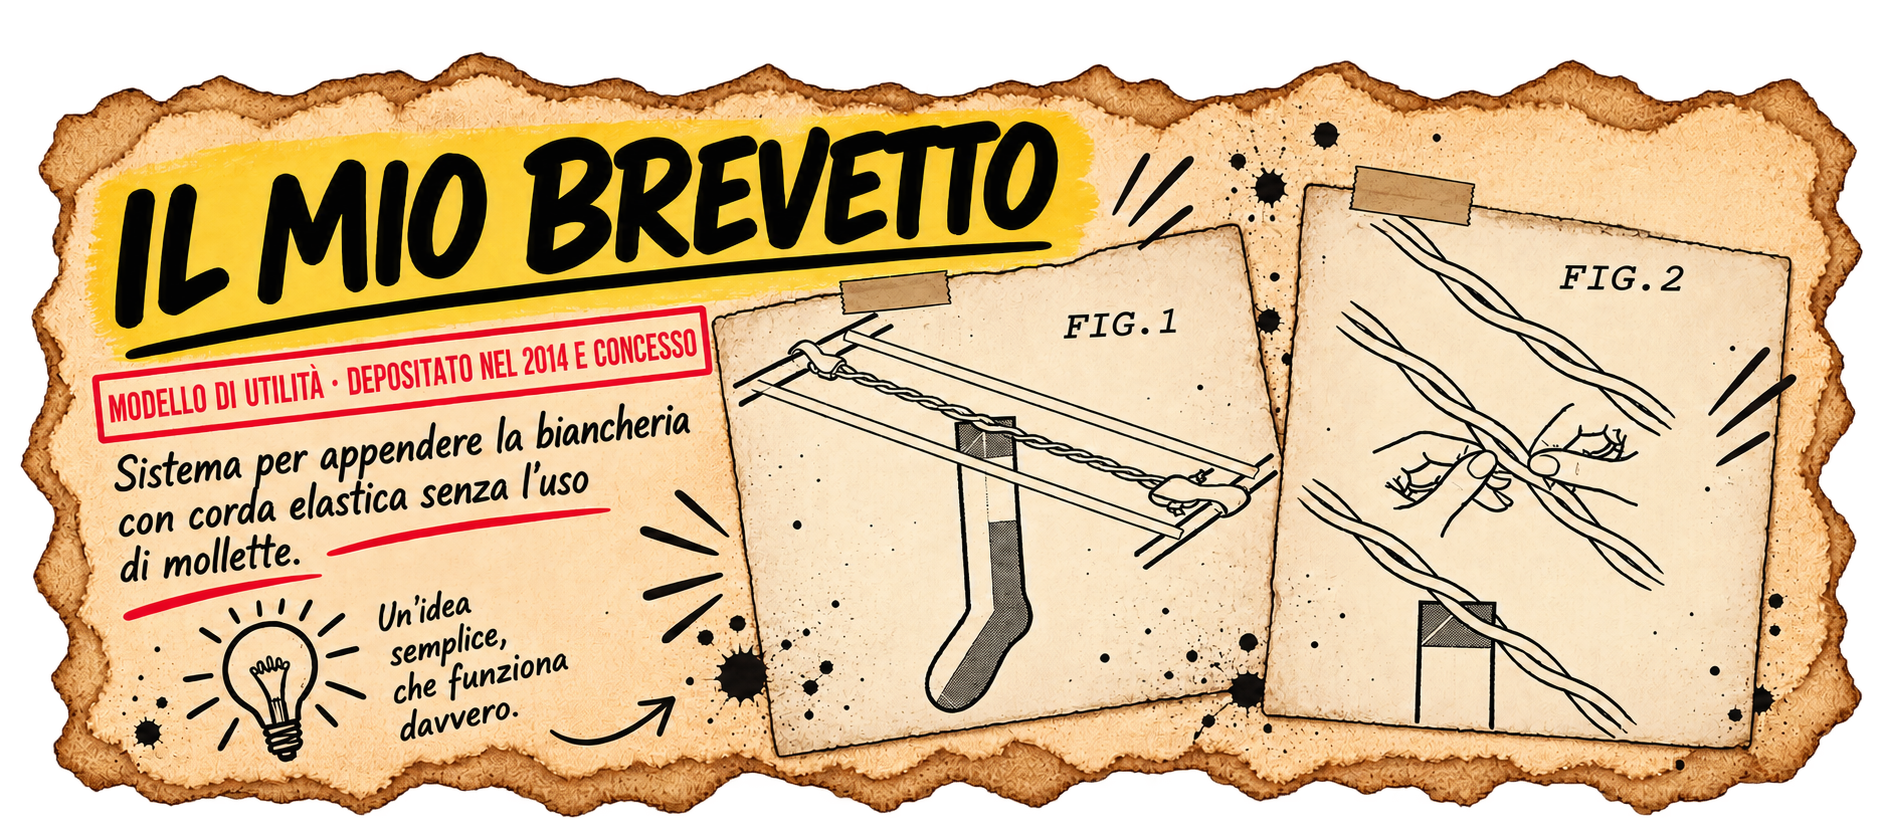
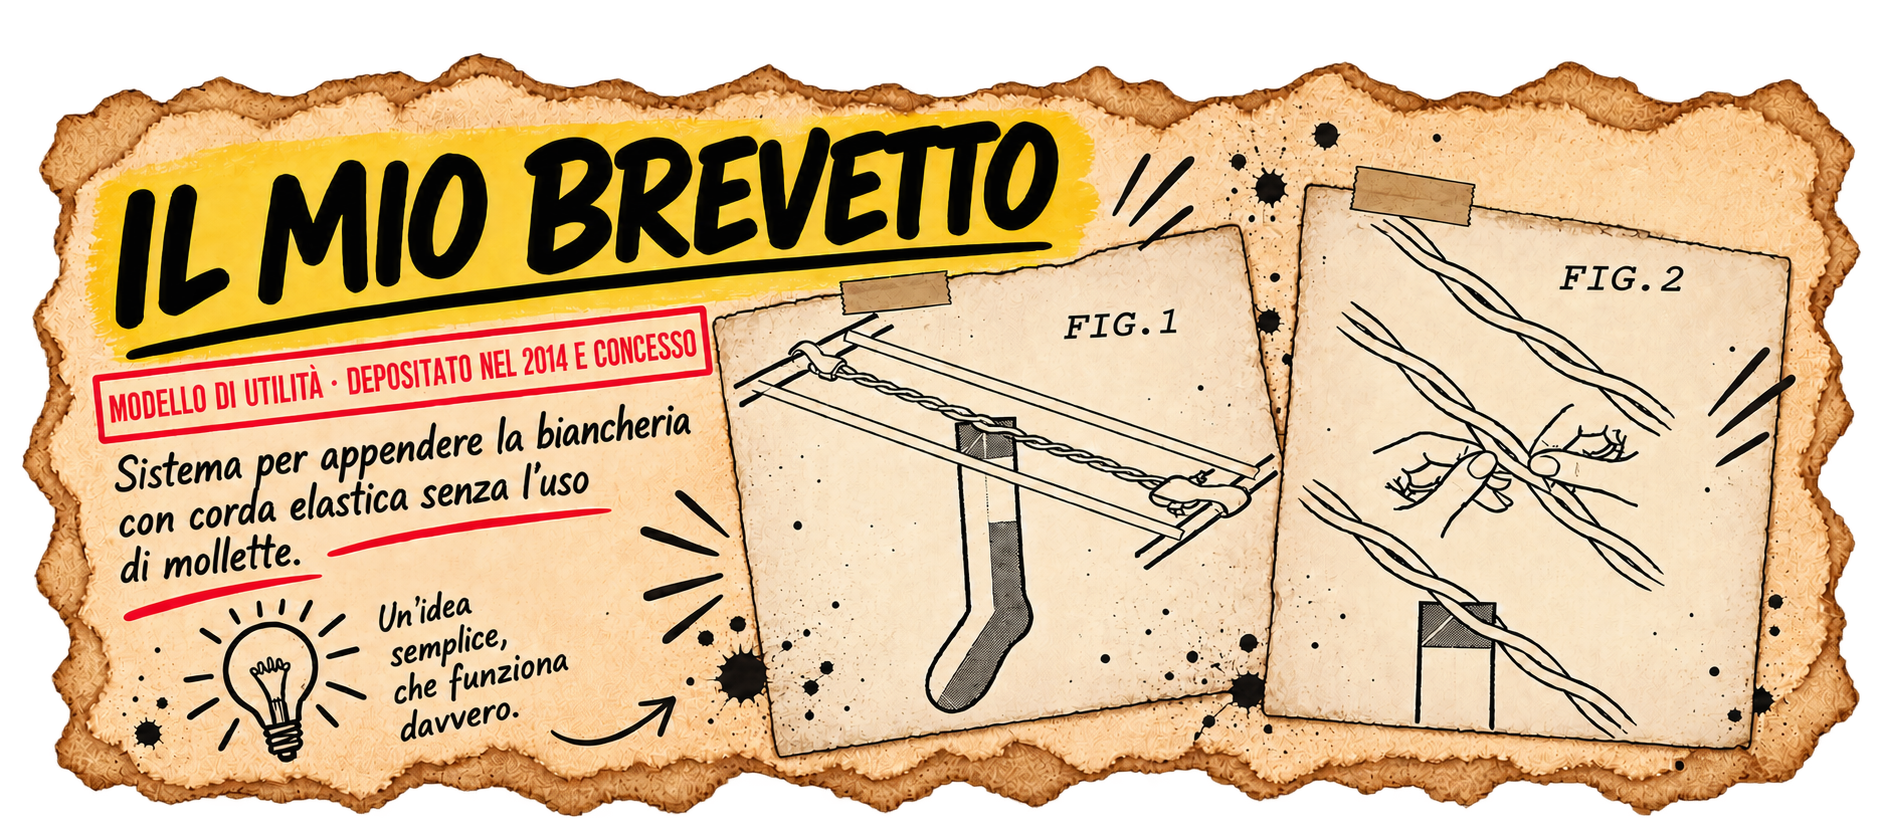
Add files via upload

diff --git a/info.html b/info.html
@@ -22,13 +22,13 @@
 
     <section><h2>05 — POKER PRO PLAYER</h2><p>Il <strong>poker sportivo e agonistico</strong> è una delle passioni di Federico Della Corte. Il suo percorso è iniziato nel 2018, dopo aver seguito una MasterClass del campione di poker <strong>Daniel Negreanu</strong>. Da allora Federico ha continuato a studiare e migliorare il proprio gioco, partecipando a tornei ufficiali e cercando progressivamente di migliorare la propria posizione nel ranking europeo e internazionale.</p><p>I risultati ottenuti nei tornei live sono registrati nel suo <a href="https://pokerdb.thehendonmob.com/player.php?a=r&amp;n=1281831" target="_blank" rel="noopener"><strong>profilo su The Hendon Mob</strong></a>, database internazionale dedicato ai risultati dei tornei di poker.</p><p>Federico affronta il poker con <strong>passione e serietà agonistica</strong>, mantenendo però una netta distinzione tra <strong>competizione e gioco problematico</strong>. Per questo associa alla propria attività un esplicito invito al gioco responsabile e ricorda che in Italia è possibile richiedere gratuitamente l'<strong>autoesclusione dal gioco a distanza</strong> attraverso il Registro Unico Autoesclusioni (RUA) dell'Agenzia delle Dogane e dei Monopoli.</p></section>
 
-    <section><h2>06 — IL MIO BREVETTO</h2><p>A una mente ADHD le idee non mancano di certo e <strong>Federico Della Corte ha sempre odiato le mollette da bucato</strong> per due motivi: lo spreco continuo di materiali — plastica, legno o altri componenti — e la necessità di utilizzare e portarsi dietro un accessorio in più per compiere un'operazione quotidiana che, secondo lui, poteva essere semplificata.</p><p>Da questa piccola insofferenza è nata un'idea molto concreta: <strong>un sistema per stendere e appendere la biancheria senza l'utilizzo delle tradizionali mollette</strong>, basato sull'impiego di corde elastiche.</p><p>L'idea è stata sviluppata pensando a diverse possibili applicazioni: <strong>accessori portatili, sistemi aggiungibili o integrabili negli stendini tradizionali e soluzioni autonome</strong>, tutte accomunate dall'obiettivo di eliminare la necessità delle mollette.</p><p>E, anche se può sembrare incredibile, Federico ha avuto anche l'energia di trasformare l'idea in un vero <strong>modello di utilità</strong>, depositato nel 2014 e successivamente concesso.</p><p>Il progetto e la relativa documentazione costituiscono parte della proprietà intellettuale di Federico Della Corte. <a href="assets/docs/brevetto-originale.pdf" target="_blank"><strong>Incredibile, vero? Guarda il brevetto originale →</strong></a></p><p>Federico è disponibile a valutare collaborazioni, partnership o proposte per lo sviluppo e la valorizzazione del progetto. Al momento non intende occuparsi direttamente della produzione industriale del sistema, ma è interessato a confrontarsi con realtà che possano contribuire alla sua eventuale evoluzione e applicazione.</p></section>
+    <section><h2>06 — IL MIO BREVETTO</h2><p>Federico ha sempre odiato le mollette da bucato. Da questa piccola insofferenza è nata l'idea di un sistema per stendere la biancheria senza mollette, utilizzando una corda elastica intrecciata capace di trattenere direttamente i tessuti.</p><p>Il progetto fu depositato presso l'<strong>Ufficio Italiano Brevetti e Marchi</strong> nel 2014 e <strong>successivamente concesso come modello di utilità</strong>.</p><p>Non è mai diventato un prodotto commerciale, ma è rimasto uno dei tanti esperimenti nati dalla stessa domanda che attraversa buona parte dei progetti FredBee: <em>si può fare diversamente?</em></p><p><strong>Riferimenti del deposito:</strong> domanda n. <strong>102014902314985</strong> · deposito <strong>05/12/2014</strong> · pubblicazione <strong>05/06/2016</strong> · modello di utilità successivamente concesso.</p></section>
 
     <section><h2>07 — SCRITTURA</h2><p>La scrittura accompagna <strong>Federico Della Corte fin dall'infanzia</strong>, quando inizia a creare fumetti, racconti e storie, affiancando successivamente alla narrativa anche la scrittura di testi per le proprie composizioni musicali.</p><p>In età adulta matura anche alcune esperienze di <strong>ghostwriting</strong>, prima di decidere di portare alla luce opere narrative proprie. Nascono così due romanzi, entrambi pubblicati con la firma <strong>Fred B.</strong>, pseudonimo autoriale riconducibile a Federico Della Corte / FredBee:</p><p><a href="https://www.amazon.it/dp/B01B0OFW8Y" target="_blank" rel="noopener"><strong>“7Guns #ultimo #sporco #lavoro”</strong></a> — <em>thriller battle royale adrenalinico</em></p><p><a href="https://www.amazon.it/dp/B093X59T35" target="_blank" rel="noopener"><strong>“Calls From Entities – Prima parte: I ladri del male”</strong></a> — <em>horror multiverso sperimentale</em></p><p>I due romanzi sono caratterizzati da un'impronta <strong>fortemente visiva e cinematografica</strong>. Federico concepisce la narrativa anche come possibile punto di partenza per altre forme di racconto e considera le proprie opere adatte a essere esplorate per eventuali <strong>adattamenti cinematografici o seriali</strong>.</p><p>Anche in questo ambito Federico è <strong>aperto a collaborazioni e proposte</strong> ed è interessato a entrare in contatto con editori, produttori e professionisti del settore audiovisivo interessati a valutare i suoi lavori e il loro possibile sviluppo.</p></section>
 
     <section><h2>08 — IDEE</h2><p>Tra i diversi social network, <strong>Federico Della Corte ha scelto LinkedIn come spazio privilegiato per il confronto diretto con chi lo segue</strong> e per condividere articoli, nuove idee, spunti e riflessioni sull'attualità.</p><p>È anche il luogo in cui far convivere interessi e competenze differenti, dalla creatività all'innovazione, dalla tecnologia alla finanza, lasciando spazio alla curiosità e a quella contaminazione tra mondi diversi che caratterizza il percorso di Federico / FredBee.</p><p>Federico considera LinkedIn soprattutto uno spazio in cui <strong>incontrare persone, confrontare idee e creare collaborazioni stimolanti</strong>, al di fuori del rumore e delle dinamiche tipiche di molti social generalisti.</p><p>Il suo <a href="https://www.linkedin.com/in/federico-della-corte-25b599165/" target="_blank" rel="noopener">profilo LinkedIn</a> rappresenta quindi il punto più diretto per seguire <strong>nuovi articoli, idee, riflessioni e possibili sviluppi dei suoi progetti</strong>, oltre che per entrare in contatto professionale con lui.</p></section>
 
-    <section id="contatti"><h2>CONTATTI</h2><p>Per collaborazioni, proposte editoriali, produzioni, sviluppo del brevetto o altri progetti: <a href="mailto:federicodellacorte@gmail.com?subject=Contatto%20dal%20sito%20FredBee"><strong>federicodellacorte@gmail.com</strong></a>.</p></section>
+    <section id="contatti"><h2>CONTATTI</h2><p>Per collaborazioni, proposte editoriali, produzioni o altri progetti: <a href="mailto:federicodellacorte@gmail.com?subject=Contatto%20dal%20sito%20FredBee"><strong>federicodellacorte@gmail.com</strong></a>.</p></section>
   </main>
 </body>
 </html>

diff --git a/index.html b/index.html
@@ -64,7 +64,6 @@
 
         <article class="block large patent">
           <img src="assets/blocks/brevetto.png" alt="Il mio brevetto — modello di utilità concesso nel 2014 per stendere la biancheria senza mollette">
-          <div class="cta-bar"><a class="cta" href="assets/docs/brevetto-originale.pdf" target="_blank">GUARDA IL BREVETTO ORIGINALE →</a></div>
         </article>
       </div>
 
